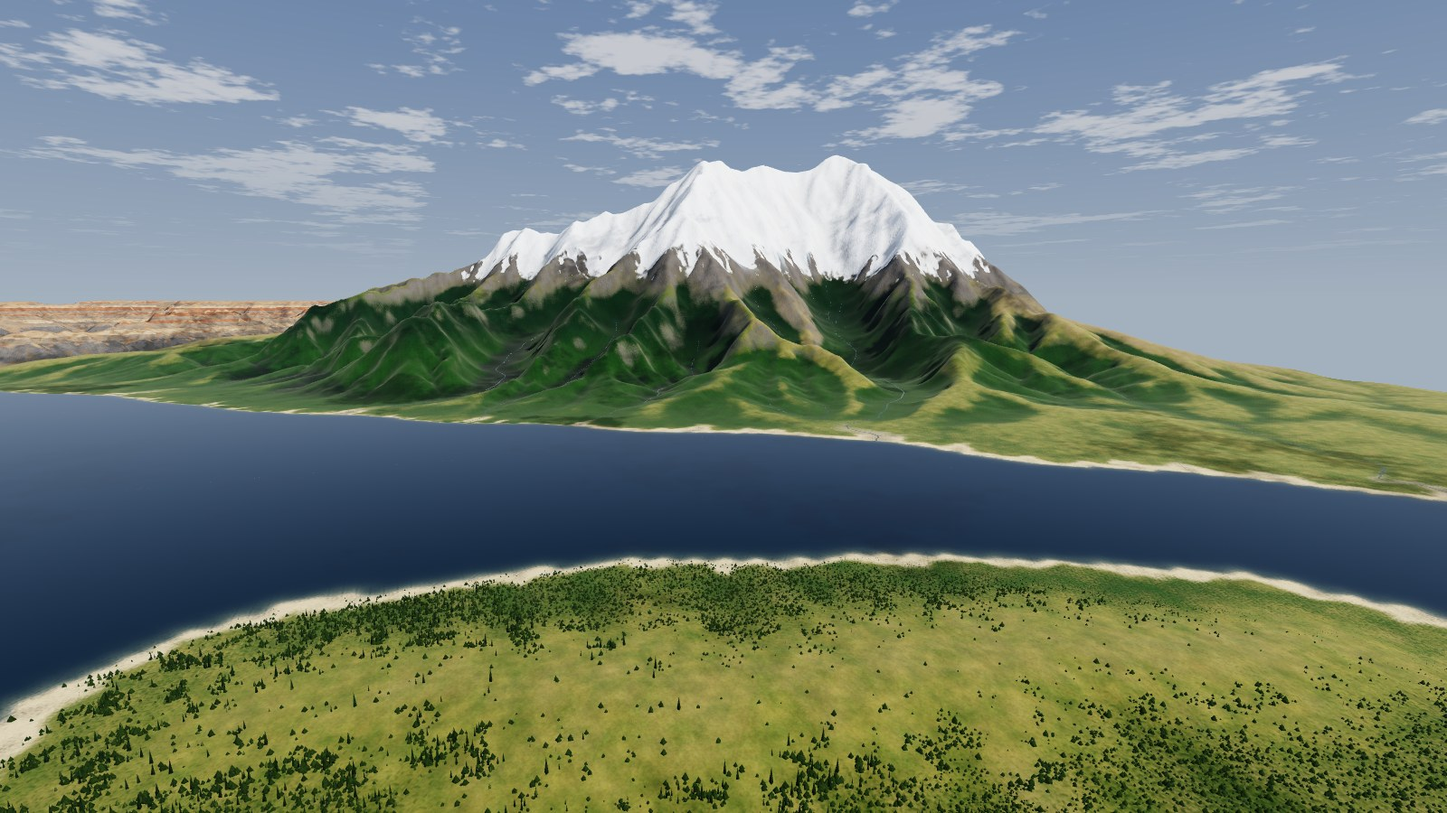
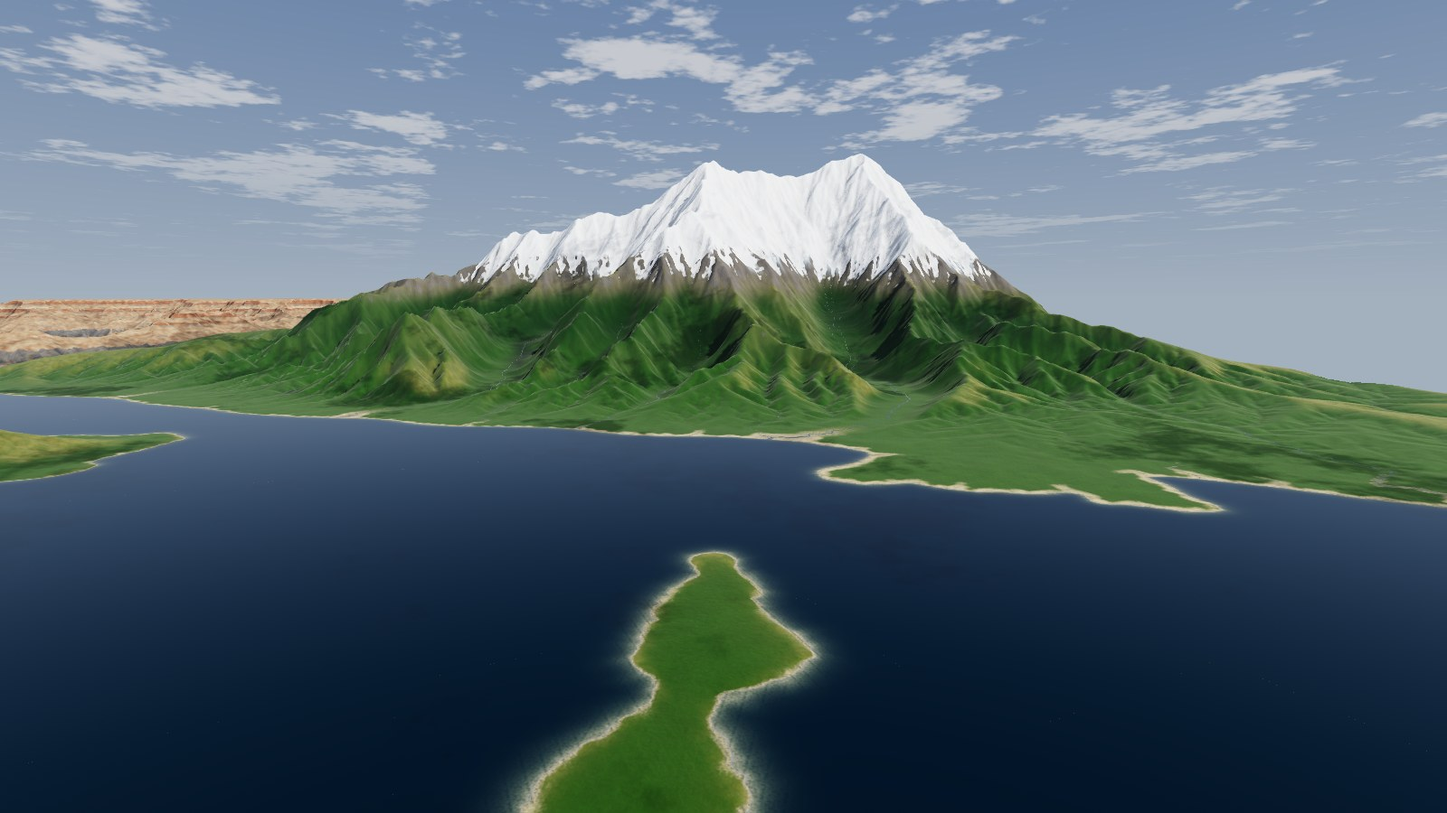
Leviathan: grassland is green
- the grass ramp stays in natural greens across the whole moisture range
  (deep meadow, fresh pasture, muted dry sward); straw and steppe only in
  the arid badlands country
- a range of grassland looks over kilometres: fresh pasture on valley soils,
  cooler sward on uplands and shaded slopes, warmer meadow on sunny slopes
- the grey on grassy hills was rock and scree breaking through: grassed
  slopes below the alpine zone now keep their turf, and soil no longer shows
  through on watered ground
- slightly calmer saturation overall

Claude-Session: https://claude.ai/code/session_01Vet8ZrF4MRDwVE5LKU6WwE

diff --git a/docs/world-b/client/materials.js b/docs/world-b/client/materials.js
@@ -147,14 +147,22 @@ void main() {
   // ---- herb layer -------------------------------------------------------------------------------
   // one colour ramp shared by grass and woodland, so going from open grassland to closed forest the ground darkens and
   // greens steadily instead of jumping from yellow grass to near-black canopy
-  vec3 lush = S(vec3(0.21, 0.34, 0.10)), mid = S(vec3(0.30, 0.41, 0.15)), dry = S(vec3(0.41, 0.44, 0.20)), steppe = S(vec3(0.53, 0.50, 0.34));
+  // grassland is green: the whole moisture range stays in natural greens (deep meadow, fresh pasture, muted dry sward);
+  // straw and steppe colours belong only to the truly arid badlands country
+  vec3 lush = S(vec3(0.14, 0.25, 0.08)), mid = S(vec3(0.20, 0.30, 0.11)), dry = S(vec3(0.28, 0.33, 0.15)), steppe = S(vec3(0.53, 0.50, 0.34));
   // open grassland is green; only truly dry country (the plateau side) cures to straw and steppe
   // broad, overlapping ramps: steppe, cured grass, green sward and lush growth grade into one another
   // (wide ramps driven by soil moisture: dry steppe, cured grass, green sward and lush growth all appear)
   vec3 grass = mix(dry, mid, smoothstep(0.2, 0.85, m));
   grass = mix(grass, lush, smoothstep(0.85, 1.5, m));
-  grass = mix(steppe, grass, smoothstep(0.05, 0.5, m));
+  grass = mix(steppe, grass, max(smoothstep(0.05, 0.5, m), 1.0 - mesa * smoothstep(0.6, 0.2, precip)));
   grass = mix(grass, mix(steppe, dry, 0.5), mesa * 0.55);          // plateau herbage is always on the dry side
+  // a range of grassland looks, not one colour: fresh pasture on deep valley soils, cooler blue-green sward on uplands
+  // and north slopes, warmer meadow on south slopes, varying over kilometres
+  float upl = smoothstep(150.0, 900.0, hc), lookN = texture2D(uNoise, vWPos.xz / 3700.0 + 0.53).b;
+  grass *= mix(vec3(1.0), vec3(1.06, 1.04, 0.86), smoothstep(0.55, 0.85, lookN) * (1.0 - upl) * 0.8);   // fresh pasture
+  grass *= mix(vec3(1.0), vec3(0.88, 0.98, 1.06), (upl * 0.7 + smoothstep(0.0, -0.4, sunny) * 0.4) * (1.0 - mesa));   // upland and shaded sward
+  grass *= mix(vec3(1.0), vec3(1.07, 1.0, 0.88), smoothstep(0.0, 0.4, sunny) * 0.5 * (1.0 - mesa));   // sunny-slope meadow
   grass = mix(grass, S(vec3(0.38, 0.36, 0.22)), smoothstep(1450.0, 2050.0, hc));
   // variant B prairie: tall green-gold grass with the wind running over it in slow waves
   float prairie = uVariantB * (1.0 - smoothstep(0.2, 0.6, forest)) * smoothstep(0.36, 0.52, precip) * (1.0 - smoothstep(0.85, 1.05, precip)) * (1.0 - mesa) * (1.0 - smoothstep(300.0, 700.0, hc)) * (1.0 - wet);
@@ -166,7 +174,7 @@ void main() {
   vec3 soil = mix(S(vec3(0.38, 0.32, 0.24)), S(vec3(0.52, 0.46, 0.36)), n3.g);
   soil = mix(soil, mix(S(vec3(0.55, 0.40, 0.29)), S(vec3(0.66, 0.56, 0.42)), n3.g), mesa);
   soil *= 0.9 + 0.2 * n1.g;
-  float veg = smoothstep(0.1, 0.62, max(m, precip * 0.85 - 0.3 * mesa) + (n2.r - 0.5) * 0.12 * mix(0.4, 1.0, detailF) + (n1.b - 0.5) * 0.1 * detailF);
+  float veg = smoothstep(0.1, 0.62, max(max(m, precip * 0.85 - 0.3 * mesa), 0.75 * (1.0 - mesa) * smoothstep(0.2, 0.4, precip)) + (n2.r - 0.5) * 0.12 * mix(0.4, 1.0, detailF) + (n1.b - 0.5) * 0.1 * detailF);
   float bare = (1.0 - 0.85 * smoothstep(0.3, 0.6, m)) * mix(0.12, smoothstep(0.62, 0.8, n1.g * 0.45 + n2.b * 0.55 + tanS * 0.22 - curv * 0.12), detailF);  // slips, trails, thin soil on spurs
   vec3 ground = mix(soil, grass, veg * (1.0 - bare * 0.3));
   vec3 litter = mix(S(vec3(0.26, 0.20, 0.12)), S(vec3(0.19, 0.24, 0.10)), n2.b * (0.5 + 0.5 * dark)) * (0.8 + 0.4 * n1.a);
@@ -209,12 +217,12 @@ void main() {
   // rock shows through gradually: thin soils on spurs and steep, high ground, in ragged patches
   float rockArg = tanS + (n2.b - 0.5) * 0.6 + (n3.a - 0.5) * 0.55 + (n4.g - 0.5) * 0.35 - curv * 0.3 + smoothstep(1300.0, 2700.0, hc) * 0.75
     - sand - forest * 1.15 - smoothstep(0.8, 1.6, precip) * 0.12 - 0.35 * (1.0 - smoothstep(1100.0, 2300.0, hc)) * smoothstep(0.45, 0.9, precip);
-  float rockW = smoothstep(1.05, 1.9, rockArg);
+  float rockW = smoothstep(1.05, 1.9, rockArg - 0.45 * veg * (1.0 - smoothstep(1300.0, 2200.0, hc)));   // grassed slopes below the alpine zone keep their turf
   rockW = max(rockW, (1.0 - veg) * smoothstep(0.6, 0.95, tanS + (n2.b - 0.5) * 0.3) * (1.0 - smoothstep(0.2, 0.5, sand)));   // (grassy hills are grass, not grey)
   vec3 col = mix(ground, rc, rockW);
   // scree and debris aprons gather in the hollows below rock; shingle on shores
   float scree = smoothstep(0.6, 1.15, tanS + (n4.b - 0.5) * 0.3 + (n1.r - 0.5) * 0.3 + curv * 0.18 + smoothstep(1700.0, 2300.0, hc) * 0.25) * (1.0 - rockW) * (1.0 - ff * 0.8);
-  col = mix(col, rc * 1.05 * (0.85 + 0.3 * n1.g), scree * 0.7 * (1.0 - 0.85 * veg * smoothstep(0.3, 0.7, m)));   // vegetated slopes are not scree
+  col = mix(col, rc * 1.05 * (0.85 + 0.3 * n1.g), scree * 0.7 * (1.0 - 0.9 * veg * (1.0 - smoothstep(1300.0, 2200.0, hc))));   // vegetated slopes are not scree
   float shore = smoothstep(1.6, 0.15, h + (n2.r - 0.5) * 0.8) * (1.0 - rockW);
   col = mix(col, mix(sandC, S(vec3(0.42, 0.40, 0.37)), n2.g) * 0.85, shore);
   col *= mix(1.0, 0.55, smoothstep(0.3, -2.5, h));
@@ -263,7 +271,7 @@ void main() {
   float back = pow(max(dot(-V, uSunDir), 0.0), 4.0) * smoothstep(-0.05, 0.25, uSunDir.y);
   lit += vegW * sh * uSunCol * (graze * 0.07 * vec3(0.85, 0.95, 0.75) + back * col * vec3(1.1, 1.35, 0.6) * 0.55);
   float lum = dot(lit, vec3(0.2126, 0.7152, 0.0722));
-  lit = max(mix(vec3(lum), lit, 1.06), 0.0);
+  lit = max(mix(vec3(lum), lit, 1.0), 0.0);
   lit += uSunCol * sh * sn * 0.25 * pow(max(dot(N, normalize(V + uSunDir)), 0.0), 40.0);
   gl_FragColor = vec4(applyAtmosphere(lit, vWPos), 1.0);
   #include <tonemapping_fragment>

diff --git a/docs/world-b2/client/materials.js b/docs/world-b2/client/materials.js
@@ -147,14 +147,22 @@ void main() {
   // ---- herb layer -------------------------------------------------------------------------------
   // one colour ramp shared by grass and woodland, so going from open grassland to closed forest the ground darkens and
   // greens steadily instead of jumping from yellow grass to near-black canopy
-  vec3 lush = S(vec3(0.21, 0.34, 0.10)), mid = S(vec3(0.30, 0.41, 0.15)), dry = S(vec3(0.41, 0.44, 0.20)), steppe = S(vec3(0.53, 0.50, 0.34));
+  // grassland is green: the whole moisture range stays in natural greens (deep meadow, fresh pasture, muted dry sward);
+  // straw and steppe colours belong only to the truly arid badlands country
+  vec3 lush = S(vec3(0.14, 0.25, 0.08)), mid = S(vec3(0.20, 0.30, 0.11)), dry = S(vec3(0.28, 0.33, 0.15)), steppe = S(vec3(0.53, 0.50, 0.34));
   // open grassland is green; only truly dry country (the plateau side) cures to straw and steppe
   // broad, overlapping ramps: steppe, cured grass, green sward and lush growth grade into one another
   // (wide ramps driven by soil moisture: dry steppe, cured grass, green sward and lush growth all appear)
   vec3 grass = mix(dry, mid, smoothstep(0.2, 0.85, m));
   grass = mix(grass, lush, smoothstep(0.85, 1.5, m));
-  grass = mix(steppe, grass, smoothstep(0.05, 0.5, m));
+  grass = mix(steppe, grass, max(smoothstep(0.05, 0.5, m), 1.0 - mesa * smoothstep(0.6, 0.2, precip)));
   grass = mix(grass, mix(steppe, dry, 0.5), mesa * 0.55);          // plateau herbage is always on the dry side
+  // a range of grassland looks, not one colour: fresh pasture on deep valley soils, cooler blue-green sward on uplands
+  // and north slopes, warmer meadow on south slopes, varying over kilometres
+  float upl = smoothstep(150.0, 900.0, hc), lookN = texture2D(uNoise, vWPos.xz / 3700.0 + 0.53).b;
+  grass *= mix(vec3(1.0), vec3(1.06, 1.04, 0.86), smoothstep(0.55, 0.85, lookN) * (1.0 - upl) * 0.8);   // fresh pasture
+  grass *= mix(vec3(1.0), vec3(0.88, 0.98, 1.06), (upl * 0.7 + smoothstep(0.0, -0.4, sunny) * 0.4) * (1.0 - mesa));   // upland and shaded sward
+  grass *= mix(vec3(1.0), vec3(1.07, 1.0, 0.88), smoothstep(0.0, 0.4, sunny) * 0.5 * (1.0 - mesa));   // sunny-slope meadow
   grass = mix(grass, S(vec3(0.38, 0.36, 0.22)), smoothstep(1450.0, 2050.0, hc));
   // variant B prairie: tall green-gold grass with the wind running over it in slow waves
   float prairie = uVariantB * (1.0 - smoothstep(0.2, 0.6, forest)) * smoothstep(0.36, 0.52, precip) * (1.0 - smoothstep(0.85, 1.05, precip)) * (1.0 - mesa) * (1.0 - smoothstep(300.0, 700.0, hc)) * (1.0 - wet);
@@ -166,7 +174,7 @@ void main() {
   vec3 soil = mix(S(vec3(0.38, 0.32, 0.24)), S(vec3(0.52, 0.46, 0.36)), n3.g);
   soil = mix(soil, mix(S(vec3(0.55, 0.40, 0.29)), S(vec3(0.66, 0.56, 0.42)), n3.g), mesa);
   soil *= 0.9 + 0.2 * n1.g;
-  float veg = smoothstep(0.1, 0.62, max(m, precip * 0.85 - 0.3 * mesa) + (n2.r - 0.5) * 0.12 * mix(0.4, 1.0, detailF) + (n1.b - 0.5) * 0.1 * detailF);
+  float veg = smoothstep(0.1, 0.62, max(max(m, precip * 0.85 - 0.3 * mesa), 0.75 * (1.0 - mesa) * smoothstep(0.2, 0.4, precip)) + (n2.r - 0.5) * 0.12 * mix(0.4, 1.0, detailF) + (n1.b - 0.5) * 0.1 * detailF);
   float bare = (1.0 - 0.85 * smoothstep(0.3, 0.6, m)) * mix(0.12, smoothstep(0.62, 0.8, n1.g * 0.45 + n2.b * 0.55 + tanS * 0.22 - curv * 0.12), detailF);  // slips, trails, thin soil on spurs
   vec3 ground = mix(soil, grass, veg * (1.0 - bare * 0.3));
   vec3 litter = mix(S(vec3(0.26, 0.20, 0.12)), S(vec3(0.19, 0.24, 0.10)), n2.b * (0.5 + 0.5 * dark)) * (0.8 + 0.4 * n1.a);
@@ -209,12 +217,12 @@ void main() {
   // rock shows through gradually: thin soils on spurs and steep, high ground, in ragged patches
   float rockArg = tanS + (n2.b - 0.5) * 0.6 + (n3.a - 0.5) * 0.55 + (n4.g - 0.5) * 0.35 - curv * 0.3 + smoothstep(1300.0, 2700.0, hc) * 0.75
     - sand - forest * 1.15 - smoothstep(0.8, 1.6, precip) * 0.12 - 0.35 * (1.0 - smoothstep(1100.0, 2300.0, hc)) * smoothstep(0.45, 0.9, precip);
-  float rockW = smoothstep(1.05, 1.9, rockArg);
+  float rockW = smoothstep(1.05, 1.9, rockArg - 0.45 * veg * (1.0 - smoothstep(1300.0, 2200.0, hc)));   // grassed slopes below the alpine zone keep their turf
   rockW = max(rockW, (1.0 - veg) * smoothstep(0.6, 0.95, tanS + (n2.b - 0.5) * 0.3) * (1.0 - smoothstep(0.2, 0.5, sand)));   // (grassy hills are grass, not grey)
   vec3 col = mix(ground, rc, rockW);
   // scree and debris aprons gather in the hollows below rock; shingle on shores
   float scree = smoothstep(0.6, 1.15, tanS + (n4.b - 0.5) * 0.3 + (n1.r - 0.5) * 0.3 + curv * 0.18 + smoothstep(1700.0, 2300.0, hc) * 0.25) * (1.0 - rockW) * (1.0 - ff * 0.8);
-  col = mix(col, rc * 1.05 * (0.85 + 0.3 * n1.g), scree * 0.7 * (1.0 - 0.85 * veg * smoothstep(0.3, 0.7, m)));   // vegetated slopes are not scree
+  col = mix(col, rc * 1.05 * (0.85 + 0.3 * n1.g), scree * 0.7 * (1.0 - 0.9 * veg * (1.0 - smoothstep(1300.0, 2200.0, hc))));   // vegetated slopes are not scree
   float shore = smoothstep(1.6, 0.15, h + (n2.r - 0.5) * 0.8) * (1.0 - rockW);
   col = mix(col, mix(sandC, S(vec3(0.42, 0.40, 0.37)), n2.g) * 0.85, shore);
   col *= mix(1.0, 0.55, smoothstep(0.3, -2.5, h));
@@ -263,7 +271,7 @@ void main() {
   float back = pow(max(dot(-V, uSunDir), 0.0), 4.0) * smoothstep(-0.05, 0.25, uSunDir.y);
   lit += vegW * sh * uSunCol * (graze * 0.07 * vec3(0.85, 0.95, 0.75) + back * col * vec3(1.1, 1.35, 0.6) * 0.55);
   float lum = dot(lit, vec3(0.2126, 0.7152, 0.0722));
-  lit = max(mix(vec3(lum), lit, 1.06), 0.0);
+  lit = max(mix(vec3(lum), lit, 1.0), 0.0);
   lit += uSunCol * sh * sn * 0.25 * pow(max(dot(N, normalize(V + uSunDir)), 0.0), 40.0);
   gl_FragColor = vec4(applyAtmosphere(lit, vWPos), 1.0);
   #include <tonemapping_fragment>

diff --git a/docs/world-s/play/client/materials.js b/docs/world-s/play/client/materials.js
@@ -147,14 +147,22 @@ void main() {
   // ---- herb layer -------------------------------------------------------------------------------
   // one colour ramp shared by grass and woodland, so going from open grassland to closed forest the ground darkens and
   // greens steadily instead of jumping from yellow grass to near-black canopy
-  vec3 lush = S(vec3(0.21, 0.34, 0.10)), mid = S(vec3(0.30, 0.41, 0.15)), dry = S(vec3(0.41, 0.44, 0.20)), steppe = S(vec3(0.53, 0.50, 0.34));
+  // grassland is green: the whole moisture range stays in natural greens (deep meadow, fresh pasture, muted dry sward);
+  // straw and steppe colours belong only to the truly arid badlands country
+  vec3 lush = S(vec3(0.14, 0.25, 0.08)), mid = S(vec3(0.20, 0.30, 0.11)), dry = S(vec3(0.28, 0.33, 0.15)), steppe = S(vec3(0.53, 0.50, 0.34));
   // open grassland is green; only truly dry country (the plateau side) cures to straw and steppe
   // broad, overlapping ramps: steppe, cured grass, green sward and lush growth grade into one another
   // (wide ramps driven by soil moisture: dry steppe, cured grass, green sward and lush growth all appear)
   vec3 grass = mix(dry, mid, smoothstep(0.2, 0.85, m));
   grass = mix(grass, lush, smoothstep(0.85, 1.5, m));
-  grass = mix(steppe, grass, smoothstep(0.05, 0.5, m));
+  grass = mix(steppe, grass, max(smoothstep(0.05, 0.5, m), 1.0 - mesa * smoothstep(0.6, 0.2, precip)));
   grass = mix(grass, mix(steppe, dry, 0.5), mesa * 0.55);          // plateau herbage is always on the dry side
+  // a range of grassland looks, not one colour: fresh pasture on deep valley soils, cooler blue-green sward on uplands
+  // and north slopes, warmer meadow on south slopes, varying over kilometres
+  float upl = smoothstep(150.0, 900.0, hc), lookN = texture2D(uNoise, vWPos.xz / 3700.0 + 0.53).b;
+  grass *= mix(vec3(1.0), vec3(1.06, 1.04, 0.86), smoothstep(0.55, 0.85, lookN) * (1.0 - upl) * 0.8);   // fresh pasture
+  grass *= mix(vec3(1.0), vec3(0.88, 0.98, 1.06), (upl * 0.7 + smoothstep(0.0, -0.4, sunny) * 0.4) * (1.0 - mesa));   // upland and shaded sward
+  grass *= mix(vec3(1.0), vec3(1.07, 1.0, 0.88), smoothstep(0.0, 0.4, sunny) * 0.5 * (1.0 - mesa));   // sunny-slope meadow
   grass = mix(grass, S(vec3(0.38, 0.36, 0.22)), smoothstep(1450.0, 2050.0, hc));
   // variant B prairie: tall green-gold grass with the wind running over it in slow waves
   float prairie = uVariantB * (1.0 - smoothstep(0.2, 0.6, forest)) * smoothstep(0.36, 0.52, precip) * (1.0 - smoothstep(0.85, 1.05, precip)) * (1.0 - mesa) * (1.0 - smoothstep(300.0, 700.0, hc)) * (1.0 - wet);
@@ -166,7 +174,7 @@ void main() {
   vec3 soil = mix(S(vec3(0.38, 0.32, 0.24)), S(vec3(0.52, 0.46, 0.36)), n3.g);
   soil = mix(soil, mix(S(vec3(0.55, 0.40, 0.29)), S(vec3(0.66, 0.56, 0.42)), n3.g), mesa);
   soil *= 0.9 + 0.2 * n1.g;
-  float veg = smoothstep(0.1, 0.62, max(m, precip * 0.85 - 0.3 * mesa) + (n2.r - 0.5) * 0.12 * mix(0.4, 1.0, detailF) + (n1.b - 0.5) * 0.1 * detailF);
+  float veg = smoothstep(0.1, 0.62, max(max(m, precip * 0.85 - 0.3 * mesa), 0.75 * (1.0 - mesa) * smoothstep(0.2, 0.4, precip)) + (n2.r - 0.5) * 0.12 * mix(0.4, 1.0, detailF) + (n1.b - 0.5) * 0.1 * detailF);
   float bare = (1.0 - 0.85 * smoothstep(0.3, 0.6, m)) * mix(0.12, smoothstep(0.62, 0.8, n1.g * 0.45 + n2.b * 0.55 + tanS * 0.22 - curv * 0.12), detailF);  // slips, trails, thin soil on spurs
   vec3 ground = mix(soil, grass, veg * (1.0 - bare * 0.3));
   vec3 litter = mix(S(vec3(0.26, 0.20, 0.12)), S(vec3(0.19, 0.24, 0.10)), n2.b * (0.5 + 0.5 * dark)) * (0.8 + 0.4 * n1.a);
@@ -209,12 +217,12 @@ void main() {
   // rock shows through gradually: thin soils on spurs and steep, high ground, in ragged patches
   float rockArg = tanS + (n2.b - 0.5) * 0.6 + (n3.a - 0.5) * 0.55 + (n4.g - 0.5) * 0.35 - curv * 0.3 + smoothstep(1300.0, 2700.0, hc) * 0.75
     - sand - forest * 1.15 - smoothstep(0.8, 1.6, precip) * 0.12 - 0.35 * (1.0 - smoothstep(1100.0, 2300.0, hc)) * smoothstep(0.45, 0.9, precip);
-  float rockW = smoothstep(1.05, 1.9, rockArg);
+  float rockW = smoothstep(1.05, 1.9, rockArg - 0.45 * veg * (1.0 - smoothstep(1300.0, 2200.0, hc)));   // grassed slopes below the alpine zone keep their turf
   rockW = max(rockW, (1.0 - veg) * smoothstep(0.6, 0.95, tanS + (n2.b - 0.5) * 0.3) * (1.0 - smoothstep(0.2, 0.5, sand)));   // (grassy hills are grass, not grey)
   vec3 col = mix(ground, rc, rockW);
   // scree and debris aprons gather in the hollows below rock; shingle on shores
   float scree = smoothstep(0.6, 1.15, tanS + (n4.b - 0.5) * 0.3 + (n1.r - 0.5) * 0.3 + curv * 0.18 + smoothstep(1700.0, 2300.0, hc) * 0.25) * (1.0 - rockW) * (1.0 - ff * 0.8);
-  col = mix(col, rc * 1.05 * (0.85 + 0.3 * n1.g), scree * 0.7 * (1.0 - 0.85 * veg * smoothstep(0.3, 0.7, m)));   // vegetated slopes are not scree
+  col = mix(col, rc * 1.05 * (0.85 + 0.3 * n1.g), scree * 0.7 * (1.0 - 0.9 * veg * (1.0 - smoothstep(1300.0, 2200.0, hc))));   // vegetated slopes are not scree
   float shore = smoothstep(1.6, 0.15, h + (n2.r - 0.5) * 0.8) * (1.0 - rockW);
   col = mix(col, mix(sandC, S(vec3(0.42, 0.40, 0.37)), n2.g) * 0.85, shore);
   col *= mix(1.0, 0.55, smoothstep(0.3, -2.5, h));
@@ -263,7 +271,7 @@ void main() {
   float back = pow(max(dot(-V, uSunDir), 0.0), 4.0) * smoothstep(-0.05, 0.25, uSunDir.y);
   lit += vegW * sh * uSunCol * (graze * 0.07 * vec3(0.85, 0.95, 0.75) + back * col * vec3(1.1, 1.35, 0.6) * 0.55);
   float lum = dot(lit, vec3(0.2126, 0.7152, 0.0722));
-  lit = max(mix(vec3(lum), lit, 1.06), 0.0);
+  lit = max(mix(vec3(lum), lit, 1.0), 0.0);
   lit += uSunCol * sh * sn * 0.25 * pow(max(dot(N, normalize(V + uSunDir)), 0.0), 40.0);
   gl_FragColor = vec4(applyAtmosphere(lit, vWPos), 1.0);
   #include <tonemapping_fragment>

diff --git a/docs/world/client/materials.js b/docs/world/client/materials.js
@@ -147,14 +147,22 @@ void main() {
   // ---- herb layer -------------------------------------------------------------------------------
   // one colour ramp shared by grass and woodland, so going from open grassland to closed forest the ground darkens and
   // greens steadily instead of jumping from yellow grass to near-black canopy
-  vec3 lush = S(vec3(0.21, 0.34, 0.10)), mid = S(vec3(0.30, 0.41, 0.15)), dry = S(vec3(0.41, 0.44, 0.20)), steppe = S(vec3(0.53, 0.50, 0.34));
+  // grassland is green: the whole moisture range stays in natural greens (deep meadow, fresh pasture, muted dry sward);
+  // straw and steppe colours belong only to the truly arid badlands country
+  vec3 lush = S(vec3(0.14, 0.25, 0.08)), mid = S(vec3(0.20, 0.30, 0.11)), dry = S(vec3(0.28, 0.33, 0.15)), steppe = S(vec3(0.53, 0.50, 0.34));
   // open grassland is green; only truly dry country (the plateau side) cures to straw and steppe
   // broad, overlapping ramps: steppe, cured grass, green sward and lush growth grade into one another
   // (wide ramps driven by soil moisture: dry steppe, cured grass, green sward and lush growth all appear)
   vec3 grass = mix(dry, mid, smoothstep(0.2, 0.85, m));
   grass = mix(grass, lush, smoothstep(0.85, 1.5, m));
-  grass = mix(steppe, grass, smoothstep(0.05, 0.5, m));
+  grass = mix(steppe, grass, max(smoothstep(0.05, 0.5, m), 1.0 - mesa * smoothstep(0.6, 0.2, precip)));
   grass = mix(grass, mix(steppe, dry, 0.5), mesa * 0.55);          // plateau herbage is always on the dry side
+  // a range of grassland looks, not one colour: fresh pasture on deep valley soils, cooler blue-green sward on uplands
+  // and north slopes, warmer meadow on south slopes, varying over kilometres
+  float upl = smoothstep(150.0, 900.0, hc), lookN = texture2D(uNoise, vWPos.xz / 3700.0 + 0.53).b;
+  grass *= mix(vec3(1.0), vec3(1.06, 1.04, 0.86), smoothstep(0.55, 0.85, lookN) * (1.0 - upl) * 0.8);   // fresh pasture
+  grass *= mix(vec3(1.0), vec3(0.88, 0.98, 1.06), (upl * 0.7 + smoothstep(0.0, -0.4, sunny) * 0.4) * (1.0 - mesa));   // upland and shaded sward
+  grass *= mix(vec3(1.0), vec3(1.07, 1.0, 0.88), smoothstep(0.0, 0.4, sunny) * 0.5 * (1.0 - mesa));   // sunny-slope meadow
   grass = mix(grass, S(vec3(0.38, 0.36, 0.22)), smoothstep(1450.0, 2050.0, hc));
   // variant B prairie: tall green-gold grass with the wind running over it in slow waves
   float prairie = uVariantB * (1.0 - smoothstep(0.2, 0.6, forest)) * smoothstep(0.36, 0.52, precip) * (1.0 - smoothstep(0.85, 1.05, precip)) * (1.0 - mesa) * (1.0 - smoothstep(300.0, 700.0, hc)) * (1.0 - wet);
@@ -166,7 +174,7 @@ void main() {
   vec3 soil = mix(S(vec3(0.38, 0.32, 0.24)), S(vec3(0.52, 0.46, 0.36)), n3.g);
   soil = mix(soil, mix(S(vec3(0.55, 0.40, 0.29)), S(vec3(0.66, 0.56, 0.42)), n3.g), mesa);
   soil *= 0.9 + 0.2 * n1.g;
-  float veg = smoothstep(0.1, 0.62, max(m, precip * 0.85 - 0.3 * mesa) + (n2.r - 0.5) * 0.12 * mix(0.4, 1.0, detailF) + (n1.b - 0.5) * 0.1 * detailF);
+  float veg = smoothstep(0.1, 0.62, max(max(m, precip * 0.85 - 0.3 * mesa), 0.75 * (1.0 - mesa) * smoothstep(0.2, 0.4, precip)) + (n2.r - 0.5) * 0.12 * mix(0.4, 1.0, detailF) + (n1.b - 0.5) * 0.1 * detailF);
   float bare = (1.0 - 0.85 * smoothstep(0.3, 0.6, m)) * mix(0.12, smoothstep(0.62, 0.8, n1.g * 0.45 + n2.b * 0.55 + tanS * 0.22 - curv * 0.12), detailF);  // slips, trails, thin soil on spurs
   vec3 ground = mix(soil, grass, veg * (1.0 - bare * 0.3));
   vec3 litter = mix(S(vec3(0.26, 0.20, 0.12)), S(vec3(0.19, 0.24, 0.10)), n2.b * (0.5 + 0.5 * dark)) * (0.8 + 0.4 * n1.a);
@@ -209,12 +217,12 @@ void main() {
   // rock shows through gradually: thin soils on spurs and steep, high ground, in ragged patches
   float rockArg = tanS + (n2.b - 0.5) * 0.6 + (n3.a - 0.5) * 0.55 + (n4.g - 0.5) * 0.35 - curv * 0.3 + smoothstep(1300.0, 2700.0, hc) * 0.75
     - sand - forest * 1.15 - smoothstep(0.8, 1.6, precip) * 0.12 - 0.35 * (1.0 - smoothstep(1100.0, 2300.0, hc)) * smoothstep(0.45, 0.9, precip);
-  float rockW = smoothstep(1.05, 1.9, rockArg);
+  float rockW = smoothstep(1.05, 1.9, rockArg - 0.45 * veg * (1.0 - smoothstep(1300.0, 2200.0, hc)));   // grassed slopes below the alpine zone keep their turf
   rockW = max(rockW, (1.0 - veg) * smoothstep(0.6, 0.95, tanS + (n2.b - 0.5) * 0.3) * (1.0 - smoothstep(0.2, 0.5, sand)));   // (grassy hills are grass, not grey)
   vec3 col = mix(ground, rc, rockW);
   // scree and debris aprons gather in the hollows below rock; shingle on shores
   float scree = smoothstep(0.6, 1.15, tanS + (n4.b - 0.5) * 0.3 + (n1.r - 0.5) * 0.3 + curv * 0.18 + smoothstep(1700.0, 2300.0, hc) * 0.25) * (1.0 - rockW) * (1.0 - ff * 0.8);
-  col = mix(col, rc * 1.05 * (0.85 + 0.3 * n1.g), scree * 0.7 * (1.0 - 0.85 * veg * smoothstep(0.3, 0.7, m)));   // vegetated slopes are not scree
+  col = mix(col, rc * 1.05 * (0.85 + 0.3 * n1.g), scree * 0.7 * (1.0 - 0.9 * veg * (1.0 - smoothstep(1300.0, 2200.0, hc))));   // vegetated slopes are not scree
   float shore = smoothstep(1.6, 0.15, h + (n2.r - 0.5) * 0.8) * (1.0 - rockW);
   col = mix(col, mix(sandC, S(vec3(0.42, 0.40, 0.37)), n2.g) * 0.85, shore);
   col *= mix(1.0, 0.55, smoothstep(0.3, -2.5, h));
@@ -263,7 +271,7 @@ void main() {
   float back = pow(max(dot(-V, uSunDir), 0.0), 4.0) * smoothstep(-0.05, 0.25, uSunDir.y);
   lit += vegW * sh * uSunCol * (graze * 0.07 * vec3(0.85, 0.95, 0.75) + back * col * vec3(1.1, 1.35, 0.6) * 0.55);
   float lum = dot(lit, vec3(0.2126, 0.7152, 0.0722));
-  lit = max(mix(vec3(lum), lit, 1.06), 0.0);
+  lit = max(mix(vec3(lum), lit, 1.0), 0.0);
   lit += uSunCol * sh * sn * 0.25 * pow(max(dot(N, normalize(V + uSunDir)), 0.0), 40.0);
   gl_FragColor = vec4(applyAtmosphere(lit, vWPos), 1.0);
   #include <tonemapping_fragment>

diff --git a/leviathan/client/materials.js b/leviathan/client/materials.js
@@ -147,14 +147,22 @@ void main() {
   // ---- herb layer -------------------------------------------------------------------------------
   // one colour ramp shared by grass and woodland, so going from open grassland to closed forest the ground darkens and
   // greens steadily instead of jumping from yellow grass to near-black canopy
-  vec3 lush = S(vec3(0.21, 0.34, 0.10)), mid = S(vec3(0.30, 0.41, 0.15)), dry = S(vec3(0.41, 0.44, 0.20)), steppe = S(vec3(0.53, 0.50, 0.34));
+  // grassland is green: the whole moisture range stays in natural greens (deep meadow, fresh pasture, muted dry sward);
+  // straw and steppe colours belong only to the truly arid badlands country
+  vec3 lush = S(vec3(0.14, 0.25, 0.08)), mid = S(vec3(0.20, 0.30, 0.11)), dry = S(vec3(0.28, 0.33, 0.15)), steppe = S(vec3(0.53, 0.50, 0.34));
   // open grassland is green; only truly dry country (the plateau side) cures to straw and steppe
   // broad, overlapping ramps: steppe, cured grass, green sward and lush growth grade into one another
   // (wide ramps driven by soil moisture: dry steppe, cured grass, green sward and lush growth all appear)
   vec3 grass = mix(dry, mid, smoothstep(0.2, 0.85, m));
   grass = mix(grass, lush, smoothstep(0.85, 1.5, m));
-  grass = mix(steppe, grass, smoothstep(0.05, 0.5, m));
+  grass = mix(steppe, grass, max(smoothstep(0.05, 0.5, m), 1.0 - mesa * smoothstep(0.6, 0.2, precip)));
   grass = mix(grass, mix(steppe, dry, 0.5), mesa * 0.55);          // plateau herbage is always on the dry side
+  // a range of grassland looks, not one colour: fresh pasture on deep valley soils, cooler blue-green sward on uplands
+  // and north slopes, warmer meadow on south slopes, varying over kilometres
+  float upl = smoothstep(150.0, 900.0, hc), lookN = texture2D(uNoise, vWPos.xz / 3700.0 + 0.53).b;
+  grass *= mix(vec3(1.0), vec3(1.06, 1.04, 0.86), smoothstep(0.55, 0.85, lookN) * (1.0 - upl) * 0.8);   // fresh pasture
+  grass *= mix(vec3(1.0), vec3(0.88, 0.98, 1.06), (upl * 0.7 + smoothstep(0.0, -0.4, sunny) * 0.4) * (1.0 - mesa));   // upland and shaded sward
+  grass *= mix(vec3(1.0), vec3(1.07, 1.0, 0.88), smoothstep(0.0, 0.4, sunny) * 0.5 * (1.0 - mesa));   // sunny-slope meadow
   grass = mix(grass, S(vec3(0.38, 0.36, 0.22)), smoothstep(1450.0, 2050.0, hc));
   // variant B prairie: tall green-gold grass with the wind running over it in slow waves
   float prairie = uVariantB * (1.0 - smoothstep(0.2, 0.6, forest)) * smoothstep(0.36, 0.52, precip) * (1.0 - smoothstep(0.85, 1.05, precip)) * (1.0 - mesa) * (1.0 - smoothstep(300.0, 700.0, hc)) * (1.0 - wet);
@@ -166,7 +174,7 @@ void main() {
   vec3 soil = mix(S(vec3(0.38, 0.32, 0.24)), S(vec3(0.52, 0.46, 0.36)), n3.g);
   soil = mix(soil, mix(S(vec3(0.55, 0.40, 0.29)), S(vec3(0.66, 0.56, 0.42)), n3.g), mesa);
   soil *= 0.9 + 0.2 * n1.g;
-  float veg = smoothstep(0.1, 0.62, max(m, precip * 0.85 - 0.3 * mesa) + (n2.r - 0.5) * 0.12 * mix(0.4, 1.0, detailF) + (n1.b - 0.5) * 0.1 * detailF);
+  float veg = smoothstep(0.1, 0.62, max(max(m, precip * 0.85 - 0.3 * mesa), 0.75 * (1.0 - mesa) * smoothstep(0.2, 0.4, precip)) + (n2.r - 0.5) * 0.12 * mix(0.4, 1.0, detailF) + (n1.b - 0.5) * 0.1 * detailF);
   float bare = (1.0 - 0.85 * smoothstep(0.3, 0.6, m)) * mix(0.12, smoothstep(0.62, 0.8, n1.g * 0.45 + n2.b * 0.55 + tanS * 0.22 - curv * 0.12), detailF);  // slips, trails, thin soil on spurs
   vec3 ground = mix(soil, grass, veg * (1.0 - bare * 0.3));
   vec3 litter = mix(S(vec3(0.26, 0.20, 0.12)), S(vec3(0.19, 0.24, 0.10)), n2.b * (0.5 + 0.5 * dark)) * (0.8 + 0.4 * n1.a);
@@ -209,12 +217,12 @@ void main() {
   // rock shows through gradually: thin soils on spurs and steep, high ground, in ragged patches
   float rockArg = tanS + (n2.b - 0.5) * 0.6 + (n3.a - 0.5) * 0.55 + (n4.g - 0.5) * 0.35 - curv * 0.3 + smoothstep(1300.0, 2700.0, hc) * 0.75
     - sand - forest * 1.15 - smoothstep(0.8, 1.6, precip) * 0.12 - 0.35 * (1.0 - smoothstep(1100.0, 2300.0, hc)) * smoothstep(0.45, 0.9, precip);
-  float rockW = smoothstep(1.05, 1.9, rockArg);
+  float rockW = smoothstep(1.05, 1.9, rockArg - 0.45 * veg * (1.0 - smoothstep(1300.0, 2200.0, hc)));   // grassed slopes below the alpine zone keep their turf
   rockW = max(rockW, (1.0 - veg) * smoothstep(0.6, 0.95, tanS + (n2.b - 0.5) * 0.3) * (1.0 - smoothstep(0.2, 0.5, sand)));   // (grassy hills are grass, not grey)
   vec3 col = mix(ground, rc, rockW);
   // scree and debris aprons gather in the hollows below rock; shingle on shores
   float scree = smoothstep(0.6, 1.15, tanS + (n4.b - 0.5) * 0.3 + (n1.r - 0.5) * 0.3 + curv * 0.18 + smoothstep(1700.0, 2300.0, hc) * 0.25) * (1.0 - rockW) * (1.0 - ff * 0.8);
-  col = mix(col, rc * 1.05 * (0.85 + 0.3 * n1.g), scree * 0.7 * (1.0 - 0.85 * veg * smoothstep(0.3, 0.7, m)));   // vegetated slopes are not scree
+  col = mix(col, rc * 1.05 * (0.85 + 0.3 * n1.g), scree * 0.7 * (1.0 - 0.9 * veg * (1.0 - smoothstep(1300.0, 2200.0, hc))));   // vegetated slopes are not scree
   float shore = smoothstep(1.6, 0.15, h + (n2.r - 0.5) * 0.8) * (1.0 - rockW);
   col = mix(col, mix(sandC, S(vec3(0.42, 0.40, 0.37)), n2.g) * 0.85, shore);
   col *= mix(1.0, 0.55, smoothstep(0.3, -2.5, h));
@@ -263,7 +271,7 @@ void main() {
   float back = pow(max(dot(-V, uSunDir), 0.0), 4.0) * smoothstep(-0.05, 0.25, uSunDir.y);
   lit += vegW * sh * uSunCol * (graze * 0.07 * vec3(0.85, 0.95, 0.75) + back * col * vec3(1.1, 1.35, 0.6) * 0.55);
   float lum = dot(lit, vec3(0.2126, 0.7152, 0.0722));
-  lit = max(mix(vec3(lum), lit, 1.06), 0.0);
+  lit = max(mix(vec3(lum), lit, 1.0), 0.0);
   lit += uSunCol * sh * sn * 0.25 * pow(max(dot(N, normalize(V + uSunDir)), 0.0), 40.0);
   gl_FragColor = vec4(applyAtmosphere(lit, vWPos), 1.0);
   #include <tonemapping_fragment>
